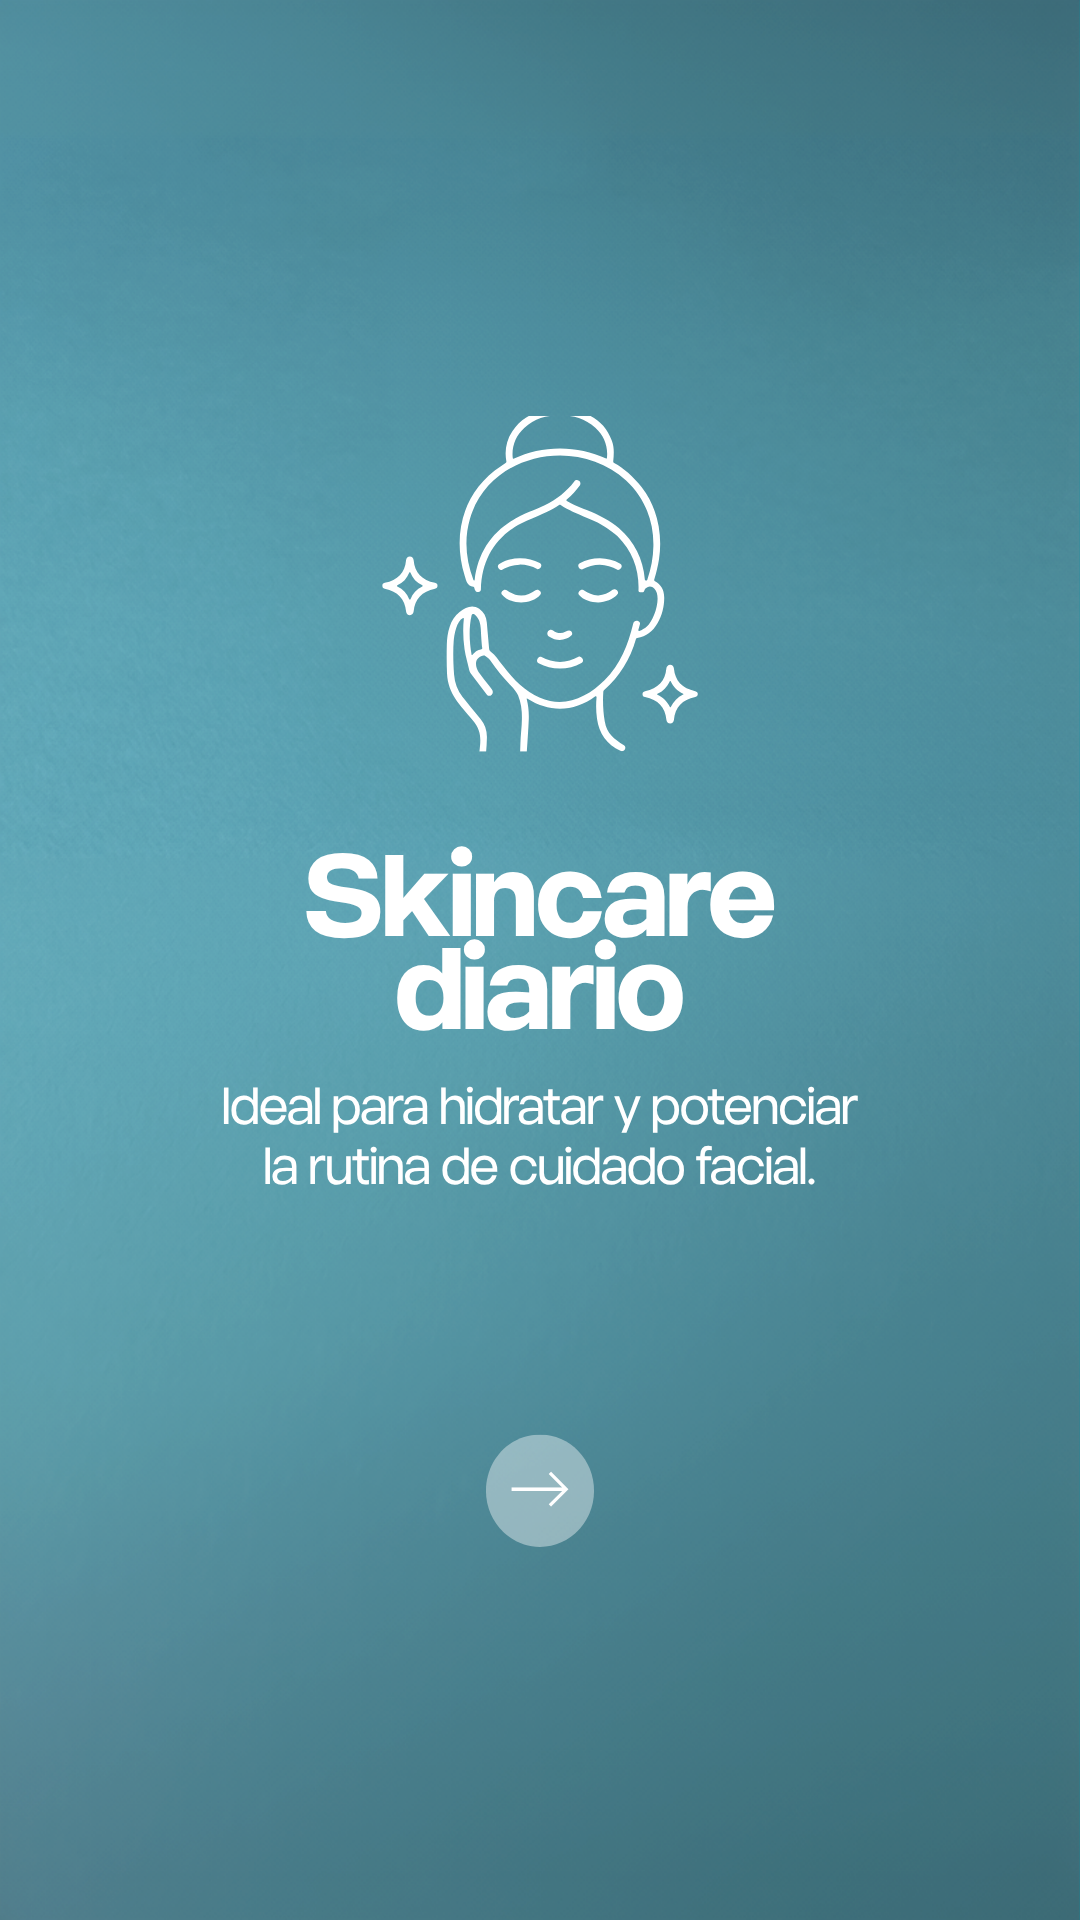
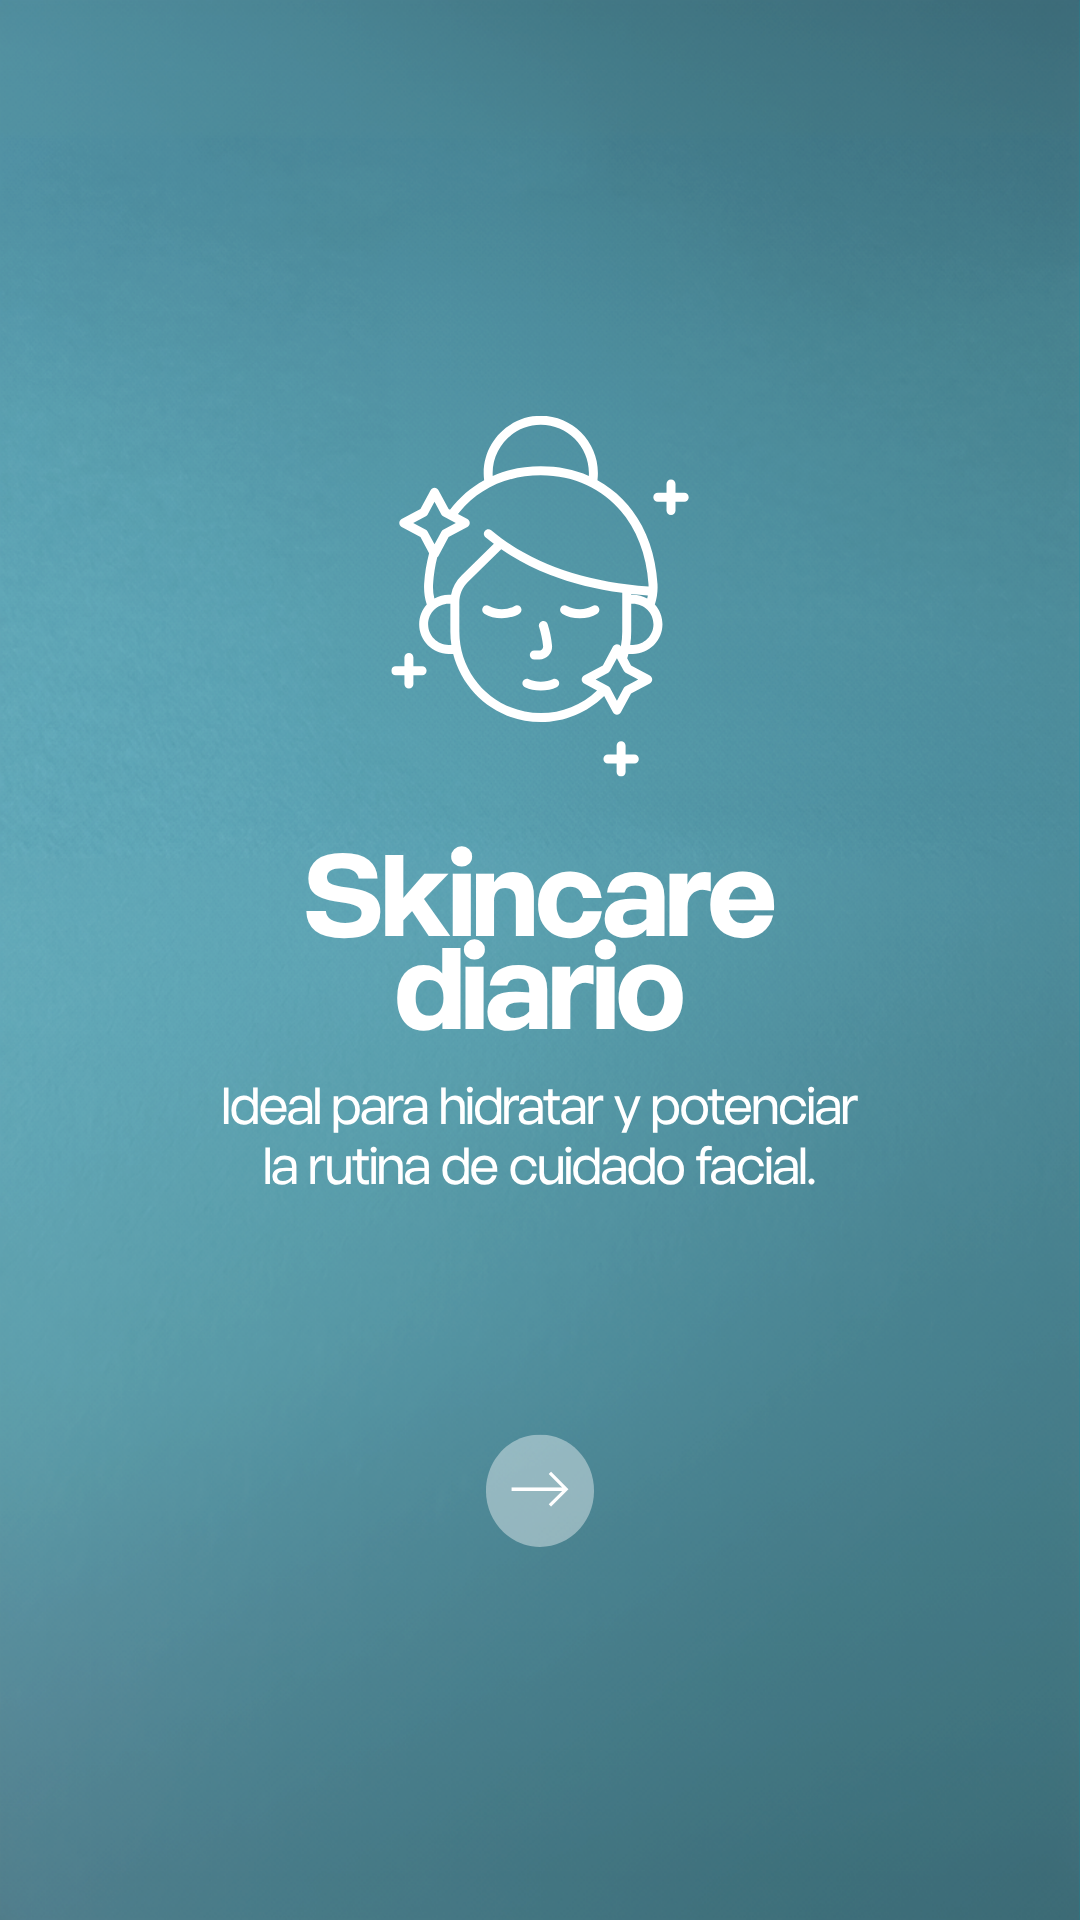
fix: show only the store button in Talones and Post Solar CTA

Changed region(s): [[0.3667, 0.2188, 0.6417, 0.4062]]

diff --git a/pages/post-solar.html b/pages/post-solar.html
@@ -79,7 +79,6 @@
         <div class="story-slide story-slide--full" data-index="5" data-src="../images/PostSolar/06-cta.png">
           <img src="../images/PostSolar/06-cta.png" alt="VALCA Post Solar - 6 de 6">
           <div class="story-slide-overlay">
-            <p class="story-coming-soon">Conseguí la tuya en</p>
             <a href="https://valca.com.ar" target="_blank" class="story-cta-btn">valca.com.ar</a>
           </div>
         </div>

diff --git a/pages/talones.html b/pages/talones.html
@@ -79,7 +79,6 @@
         <div class="story-slide story-slide--full" data-index="5" data-src="../images/Talones/06-cta.png">
           <img src="../images/Talones/06-cta.png" alt="VALCA Talones - 6 de 6">
           <div class="story-slide-overlay">
-            <p class="story-coming-soon">Conseguí la tuya en</p>
             <a href="https://valca.com.ar" target="_blank" class="story-cta-btn">valca.com.ar</a>
           </div>
         </div>
